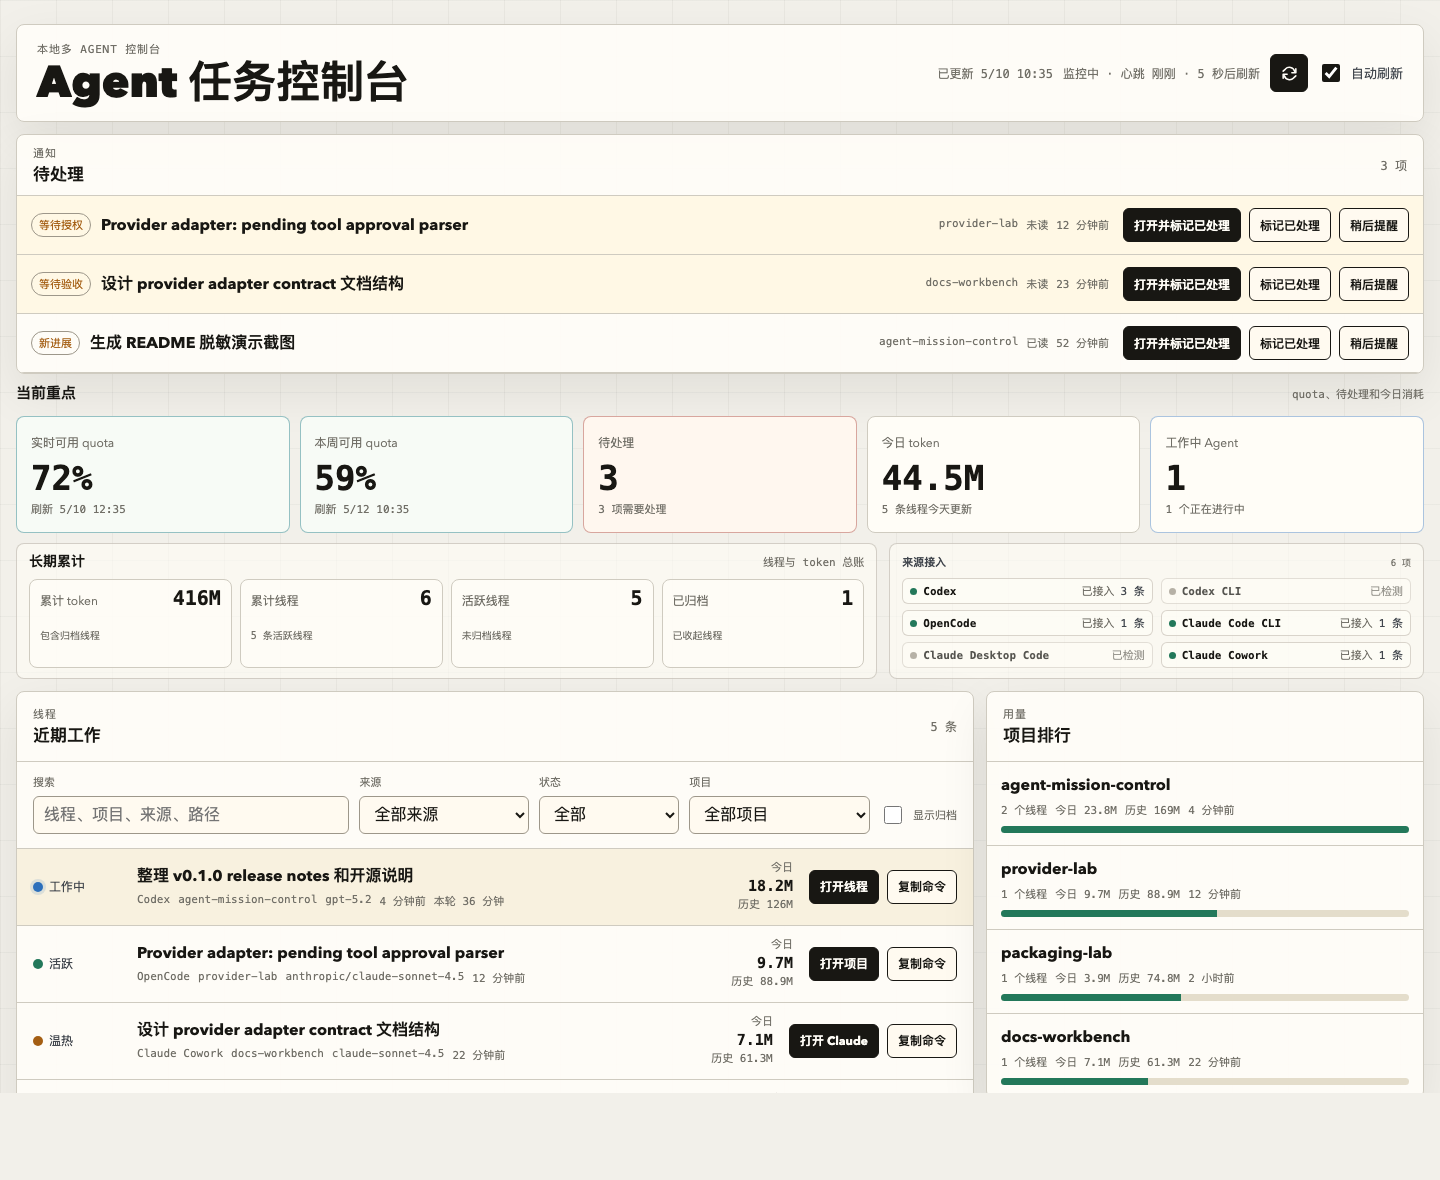
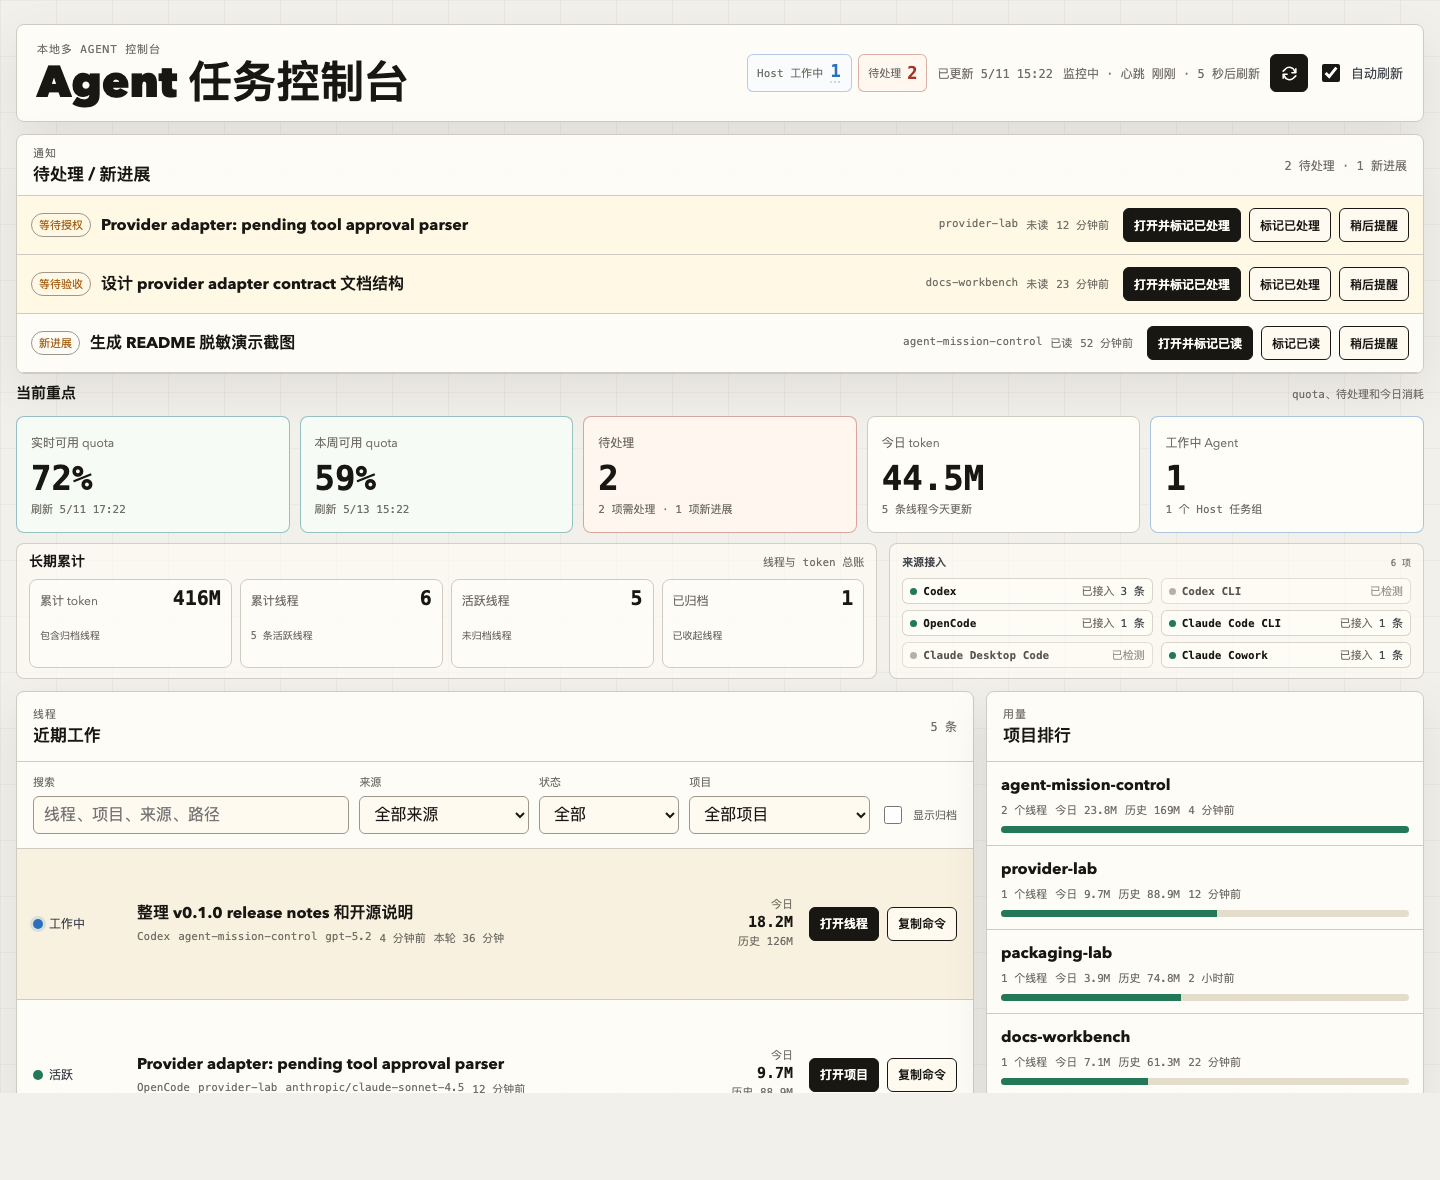
Document latest host task progress

diff --git a/CHANGELOG.md b/CHANGELOG.md
@@ -2,6 +2,32 @@
 
 All notable changes to Agent Mission Control are documented here.
 
+## [Unreleased]
+
+### English
+
+#### Added
+
+- Added running Host task group counts to the dashboard summary, top bar, and privacy-limited pending summary API.
+- Added a lightweight top-bar metric cluster for running Host tasks and hard pending work.
+
+#### Changed
+
+- Refined the macOS menu bar helper so clicking the badge focuses an existing Chrome or Safari dashboard tab before opening a new dashboard URL.
+- Updated the work-in-progress summary copy to distinguish running Agent threads from running Host task groups.
+
+### 中文
+
+#### 新增
+
+- 在看板摘要、顶部栏和隐私受限的 pending summary API 中加入工作中的 Host 任务组数量。
+- 新增顶部关键指标区，用于快速查看工作中的 Host 任务和硬待处理数量。
+
+#### 调整
+
+- 优化 macOS 菜单栏辅助工具：点击徽章会优先切回已有的 Chrome 或 Safari 控制台标签页，再按需打开新页面。
+- 调整工作中摘要文案，区分运行中的 Agent 线程和运行中的 Host 任务组。
+
 ## [0.2.2] - 2026-05-11
 
 ### English